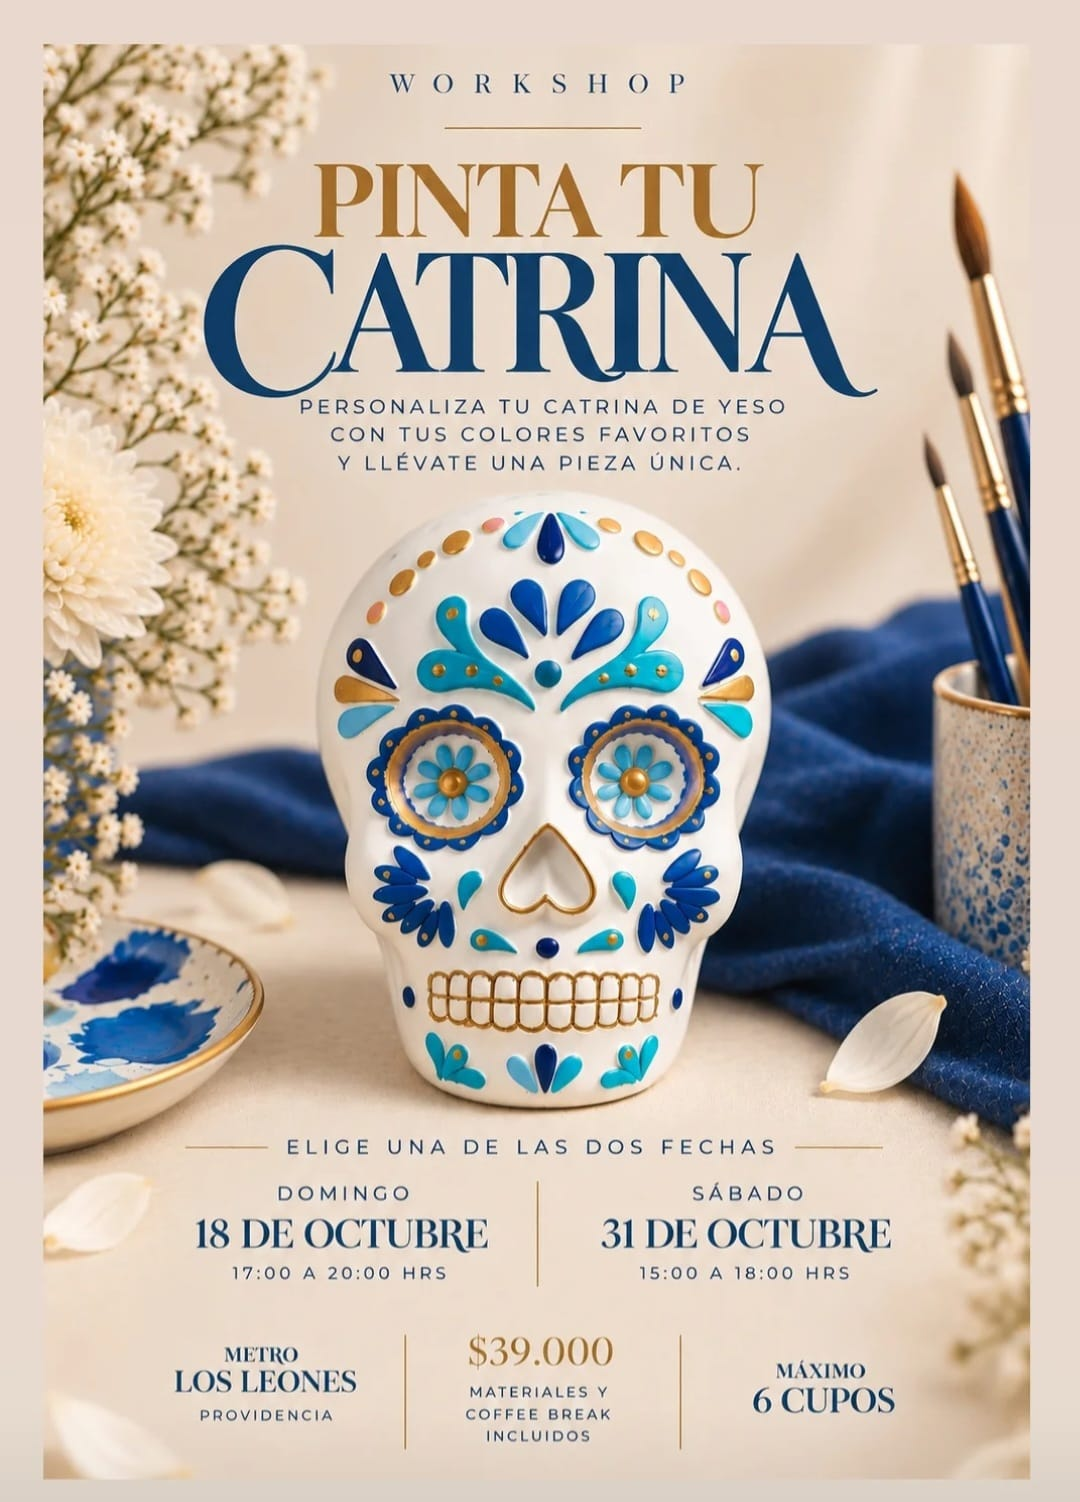
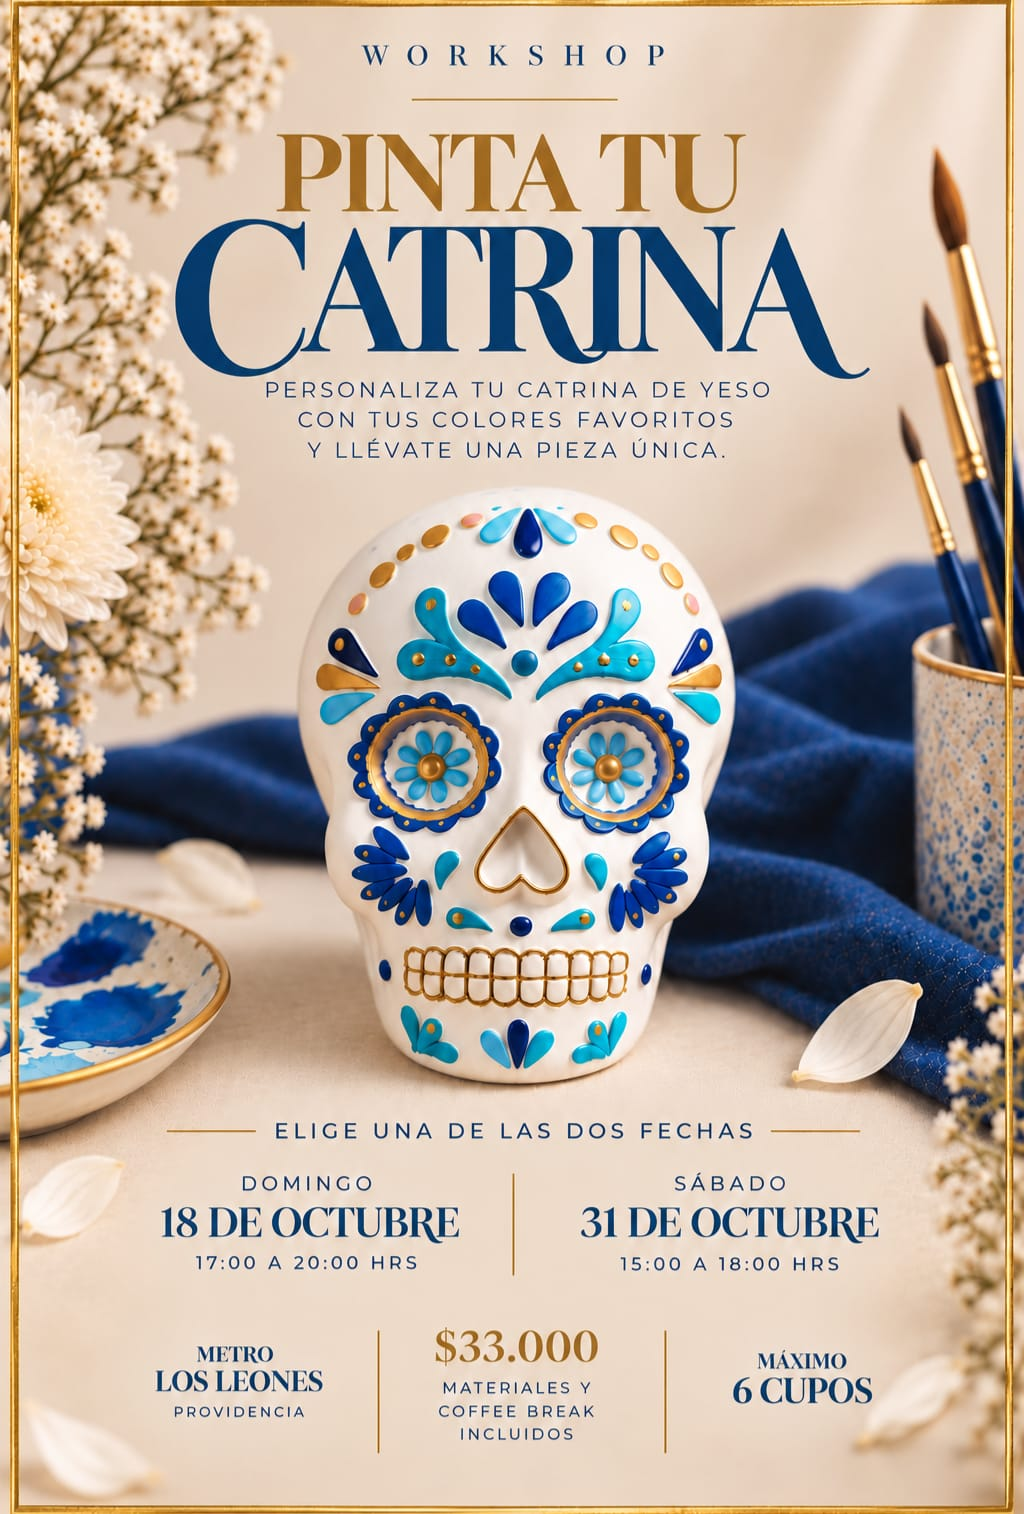
Actualizar afiche y precio del workshop Pinta tu Catrina

diff --git a/src/lib/constants.ts b/src/lib/constants.ts
@@ -84,7 +84,7 @@ export const WORKSHOPS: Workshop[] = [
       },
     ],
     duration: '3 horas · sesión única',
-    price: 39000,
+    price: 33000,
     groupSize: 6,
     level: 'Todos los niveles',
     image: '/fotos/workshop-pinta-tu-catrina.jpg',
@@ -93,7 +93,7 @@ export const WORKSHOPS: Workshop[] = [
     badge: 'Especial Día de Muertos',
     detailLink: '/talleres/pinta-tu-catrina',
     seoTitle: 'Pinta tu Catrina · Workshop Día de Muertos en Providencia | Josefina Fainé',
-    seoDescription: 'Pinta tu catrina de yeso en Providencia: 18 de octubre de 17:00 a 20:00 o 31 de octubre de 2026 de 15:00 a 18:00. $39.000, materiales y coffee break incluidos. Máximo 6 cupos.',
+    seoDescription: 'Pinta tu catrina de yeso en Providencia: 18 de octubre de 17:00 a 20:00 o 31 de octubre de 2026 de 15:00 a 18:00. $33.000, materiales y coffee break incluidos. Máximo 6 cupos.',
     heading: 'Pinta tu Catrina · Especial Día de Muertos',
     intro: 'Celebra el Día de Muertos con una experiencia creativa: personaliza tu catrina de yeso con tus colores favoritos y llévate una pieza única. Elige una de las dos fechas de octubre y disfruta de tres horas para pintar en un grupo de máximo seis personas.',
     incluye: [
